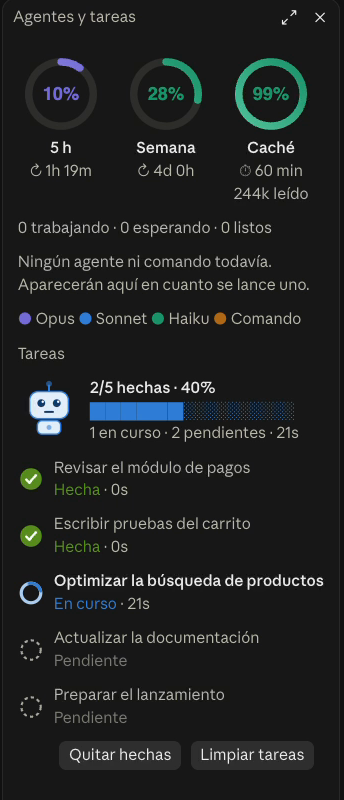
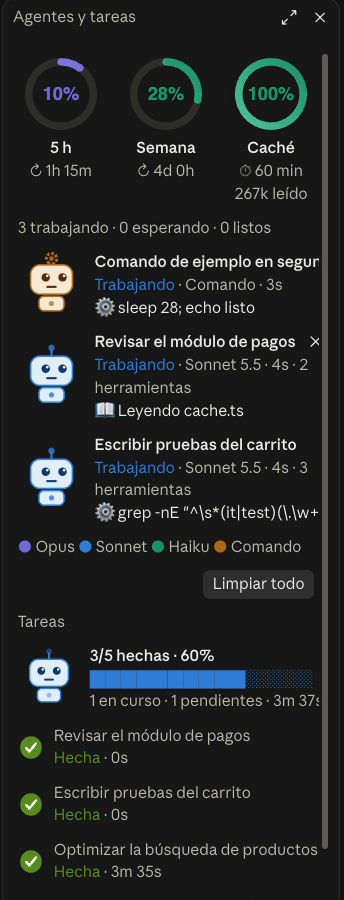
docs: GIF del panel con agentes trabajando

diff --git a/README.md b/README.md
@@ -2,9 +2,9 @@
 
 Dos mods para Claude Code que muestran en pantalla lo que normalmente no se ve: qué hacen tus subagentes, cuánto te queda de cuota y cómo va la caché de prompts.
 
-<p align="center"><img src="docs/panel.gif" alt="Panel «Agentes y tareas» de agent-bots con los anillos de cuota de 5 h, semana y caché, y la lista de tareas" width="344"></p>
+<p align="center"><img src="docs/panel.gif" alt="Panel «Agentes y tareas» de agent-bots con los anillos de cuota de 5 h, semana y caché, dos subagentes y un comando en segundo plano trabajando, y la lista de tareas" width="344"></p>
 
-*El panel de `agent-bots` en la app de escritorio, con tareas de ejemplo.*
+*El panel de `agent-bots` en la app de escritorio, con agentes y tareas de ejemplo.*
 
 > **Aviso:** la API de mods de Claude Code es de acceso anticipado y puede cambiar entre versiones. Probados con Claude Code 2.1.292 y 2.1.299.
 
